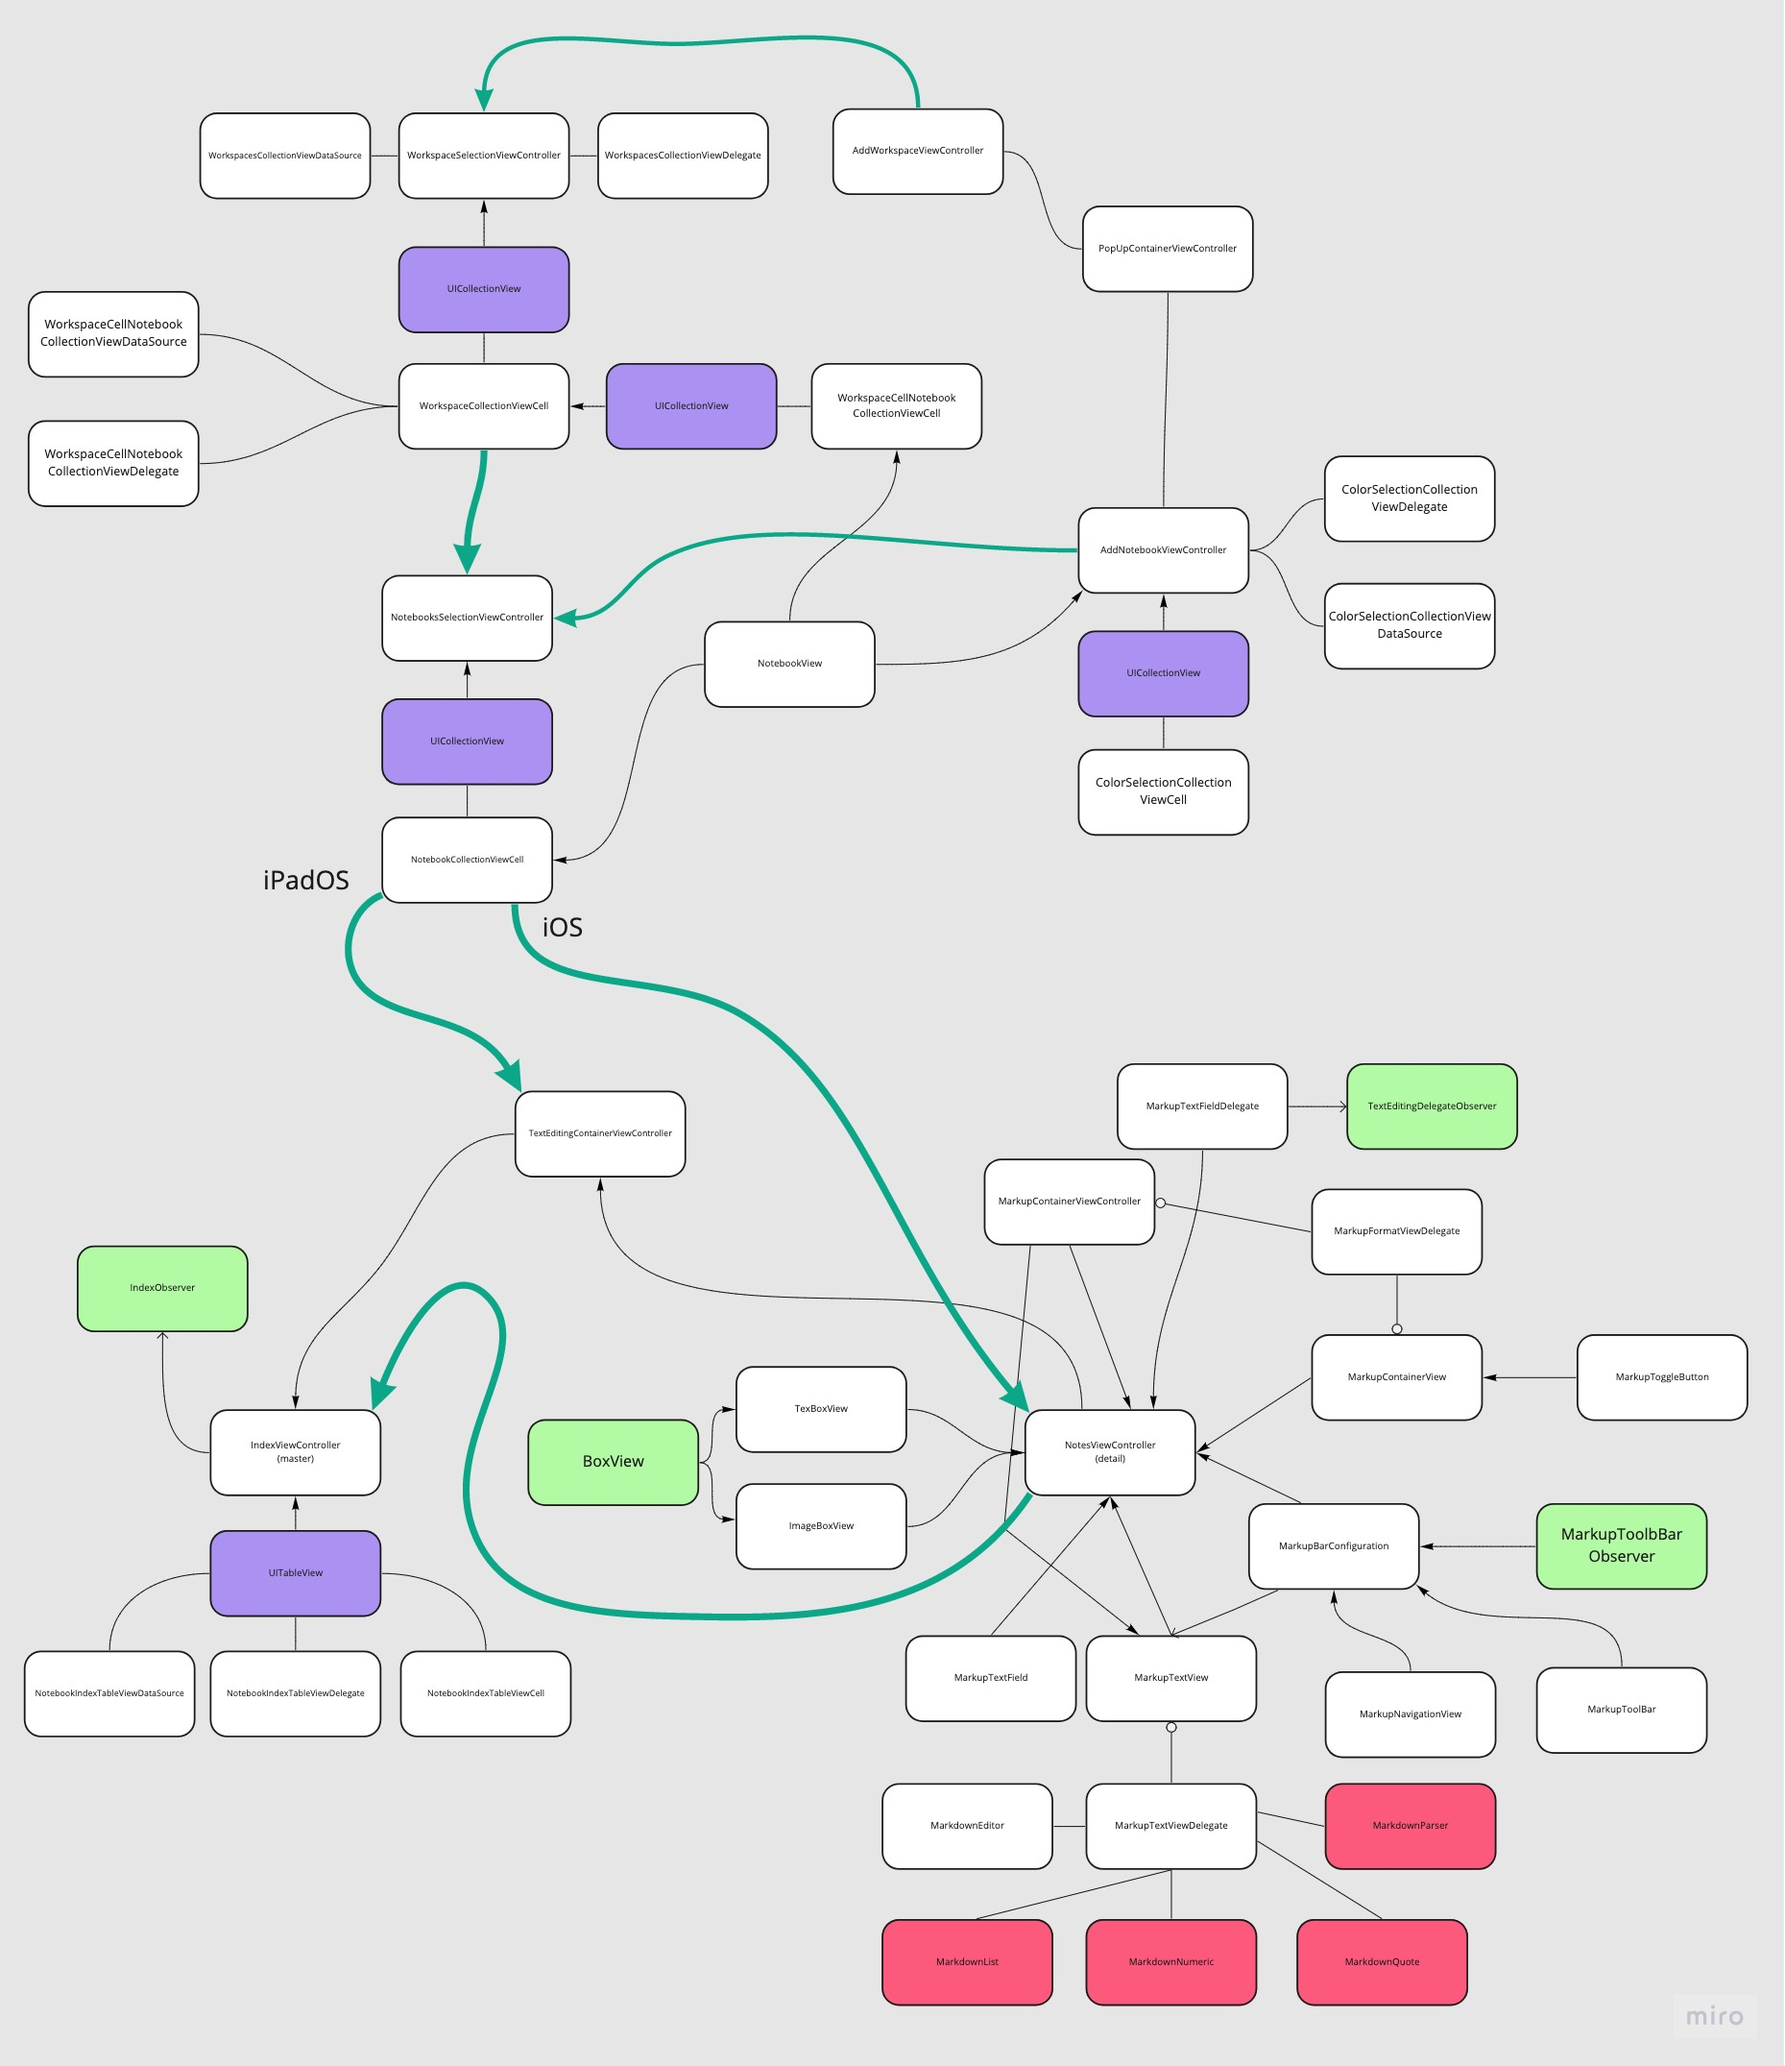
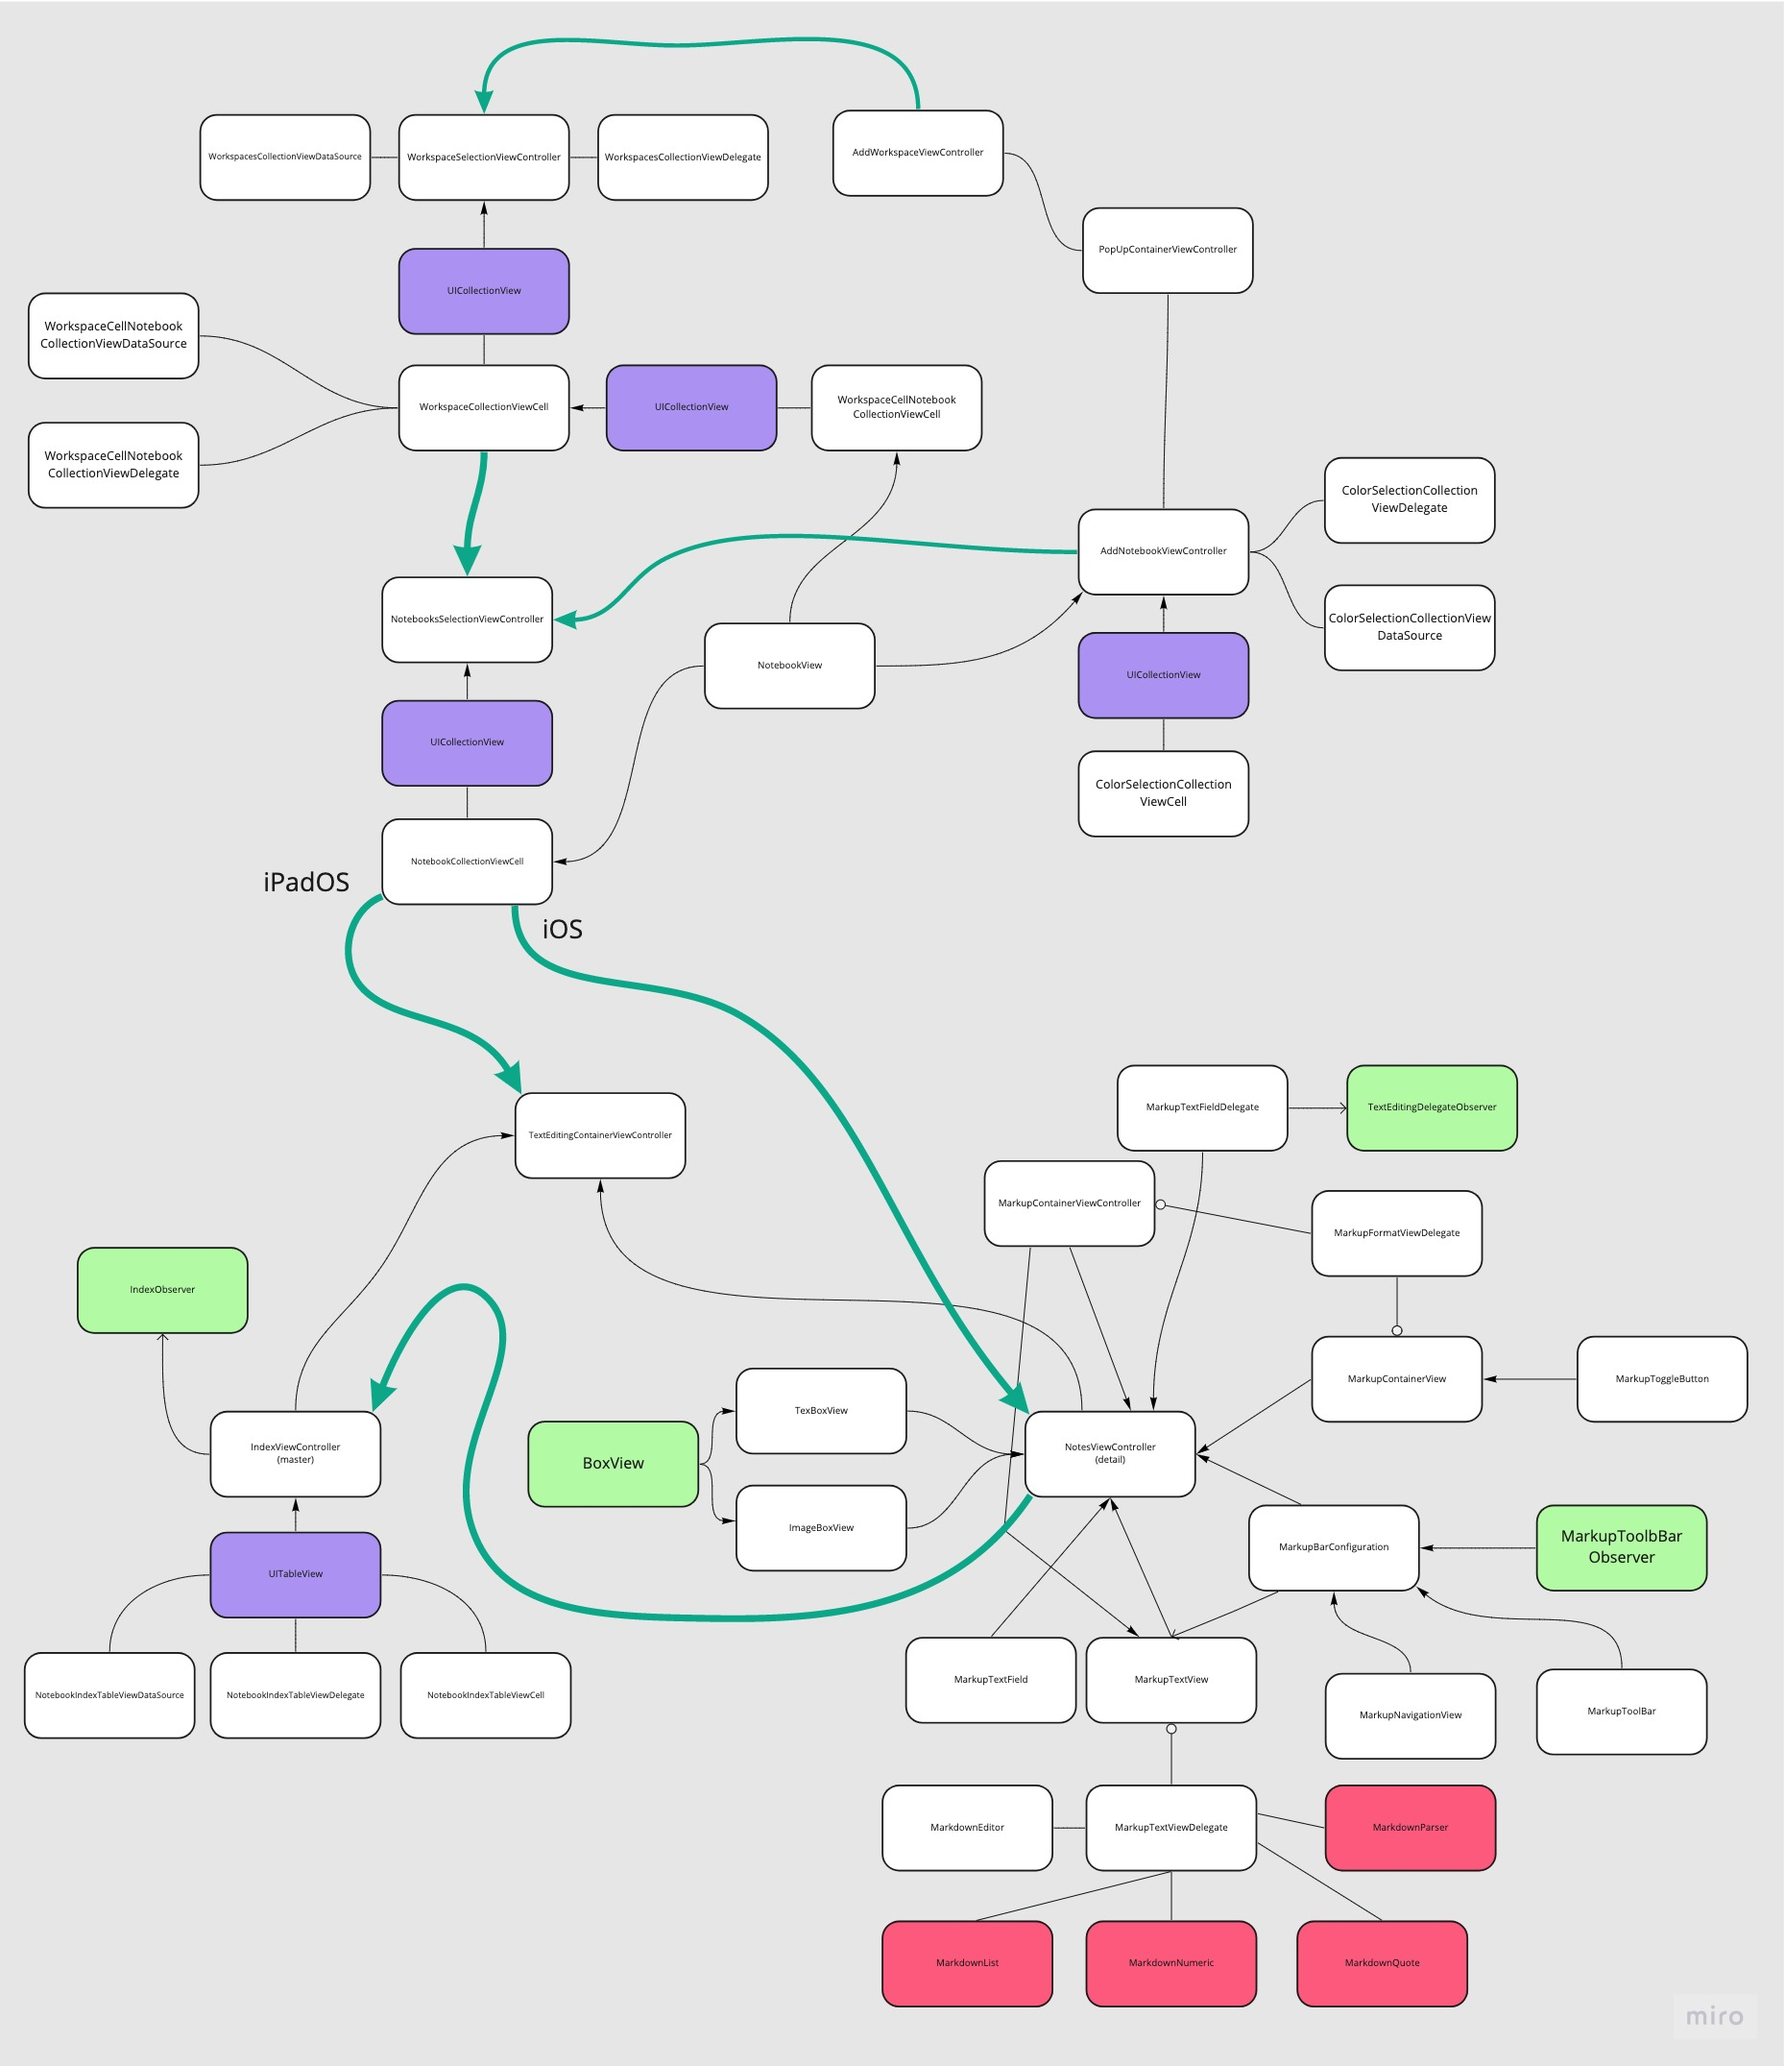
Hotfix/text editing crashes+replace diagram image (#89)
* Making sure not adding/removing a UIBarButton twice

* Fixing Leo's wrong diagram

diff --git a/MacroPepelelipa/MacroPepelelipa/Controller/Notebook/Notes Page View/NotesPageViewController.swift b/MacroPepelelipa/MacroPepelelipa/Controller/Notebook/Notes Page View/NotesPageViewController.swift
@@ -243,12 +243,16 @@ internal class NotesPageViewController: UIPageViewController,
     
     /// This method addes the done button when the keyboard shows.
     @objc func keyboardWillShow(_ notification: Notification) {
-        navigationItem.rightBarButtonItems?.append(doneButton)
+        if navigationItem.rightBarButtonItems?.firstIndex(of: doneButton) != nil {
+            navigationItem.rightBarButtonItems?.append(doneButton)
+        }
     }
     
     /// This method removes the done button when the keyboard hides.
     @objc func keyboardWillHide(_ notification: Notification) {
-        navigationItem.rightBarButtonItems = [notebookIndexButton]
+        if let index = navigationItem.rightBarButtonItems?.firstIndex(of: doneButton) {
+            navigationItem.rightBarButtonItems?.remove(at: index)
+        }
     }
     
     // MARK: - IndexObserver functions
